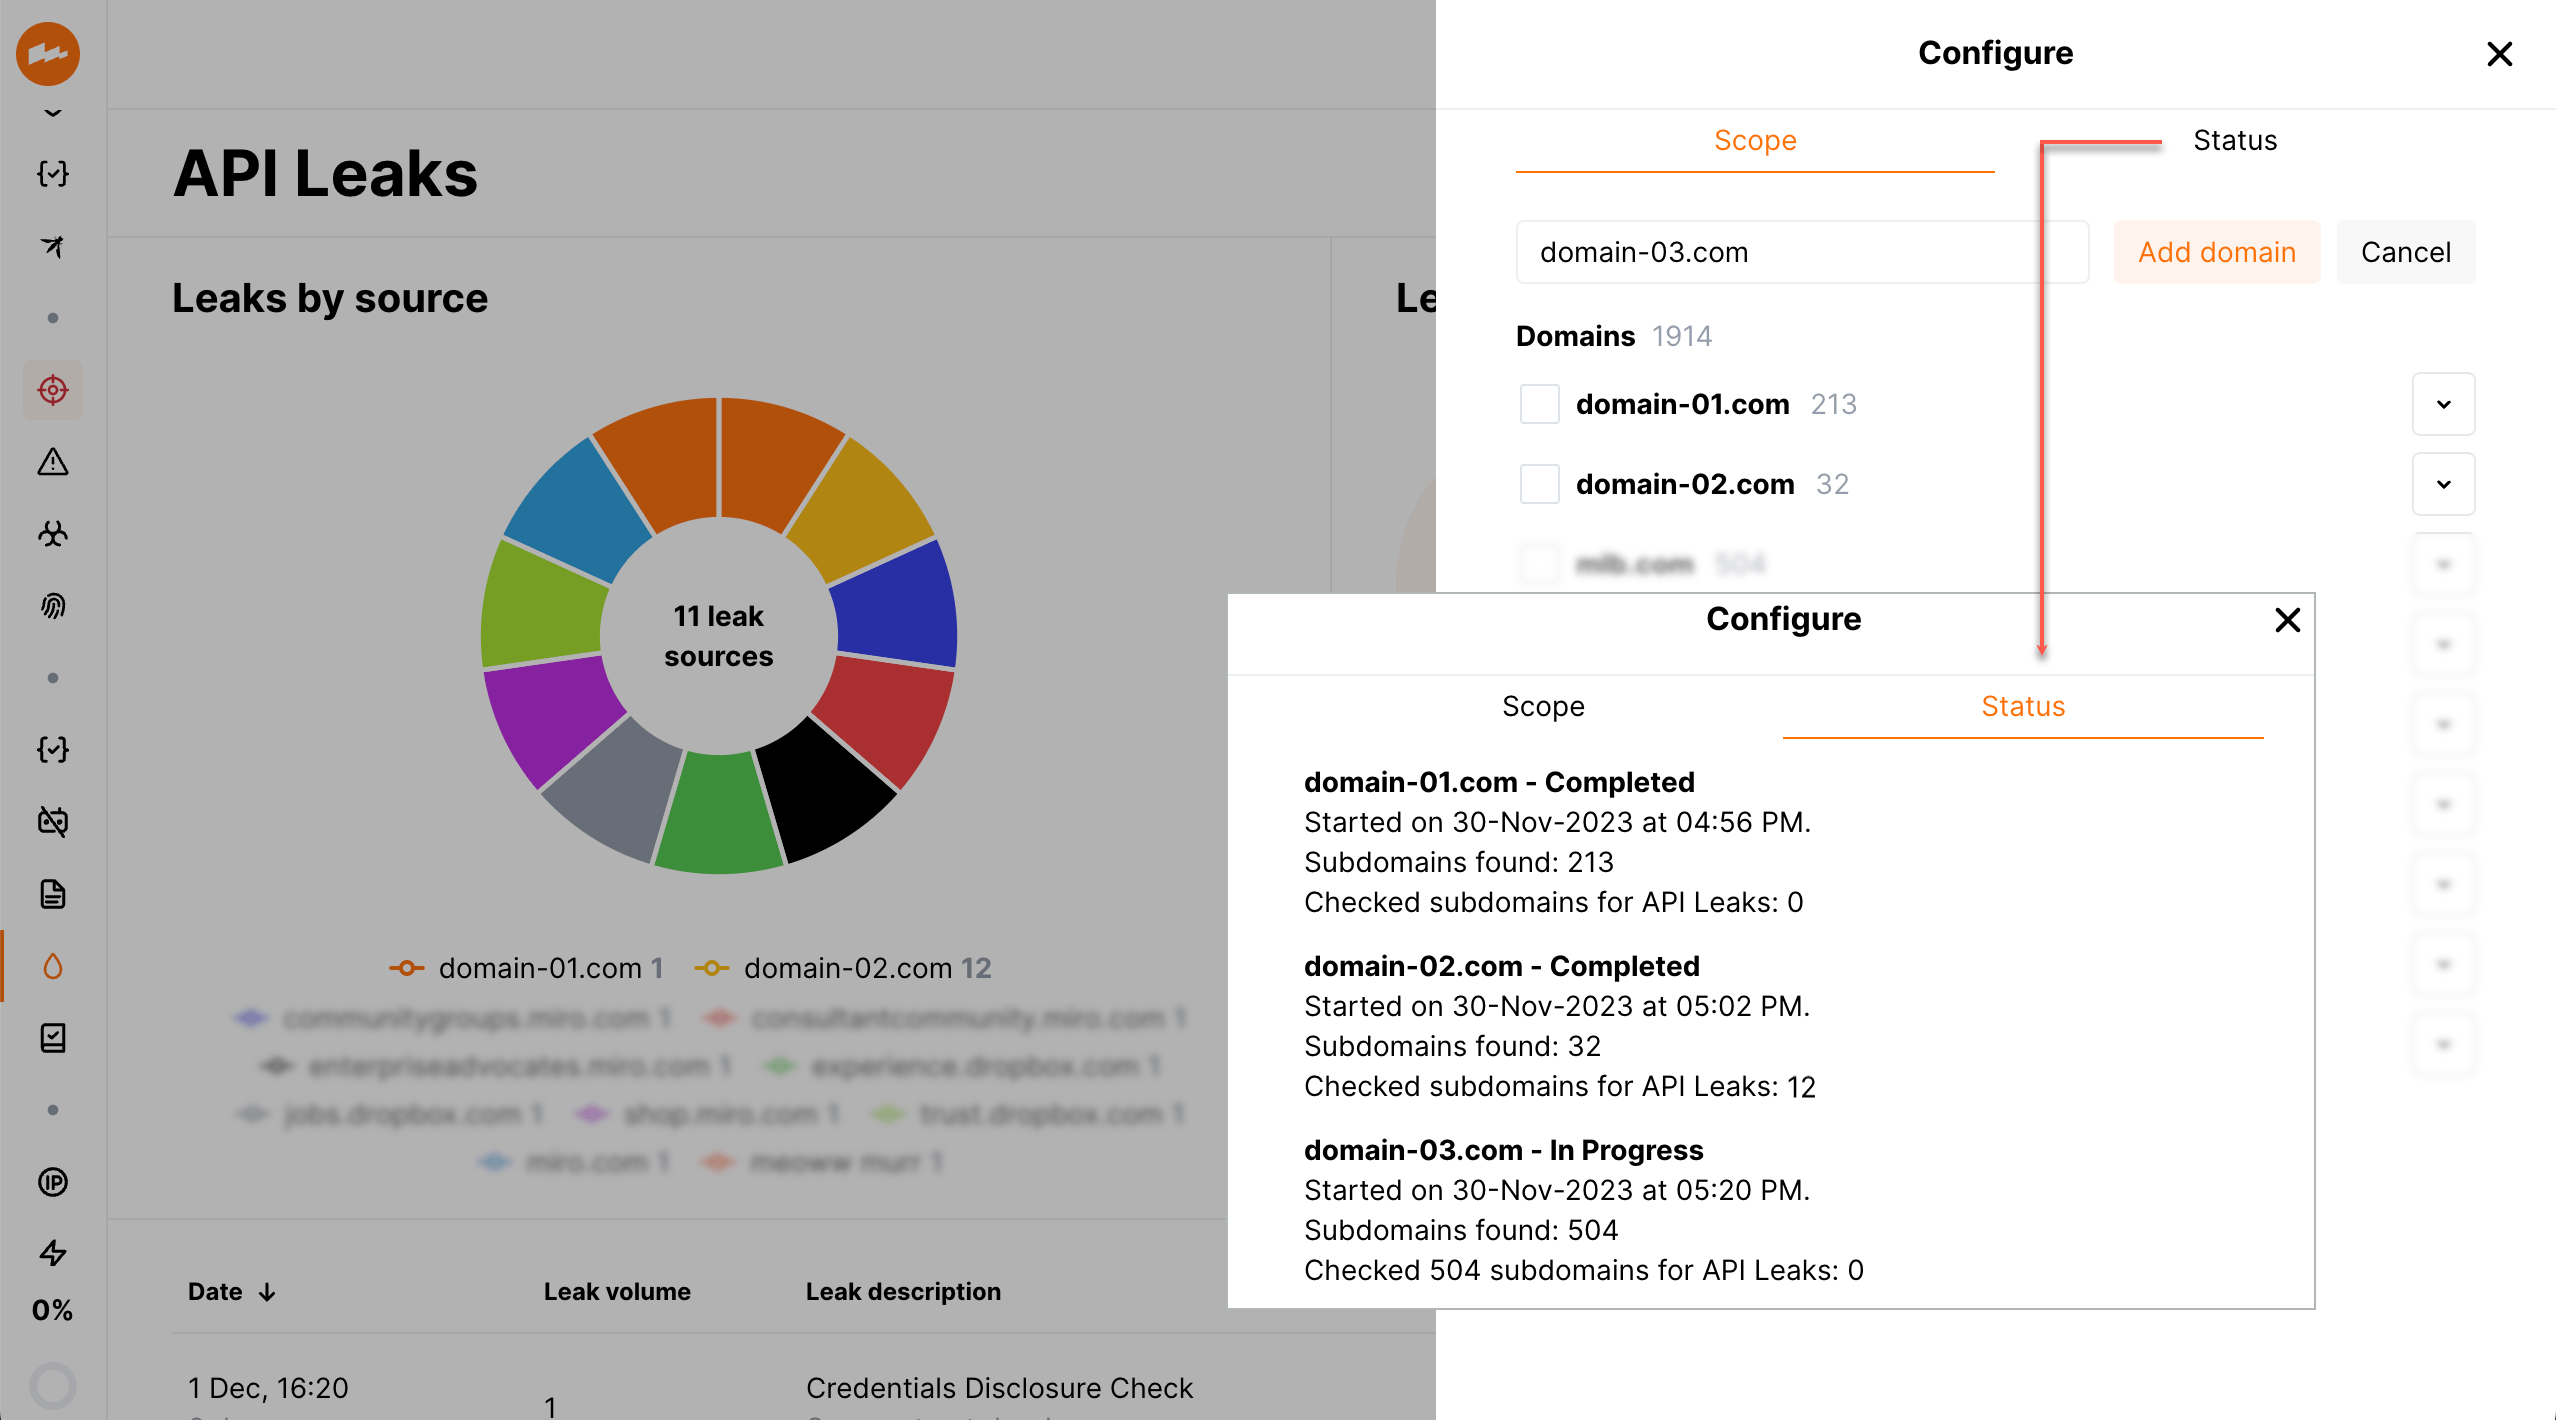
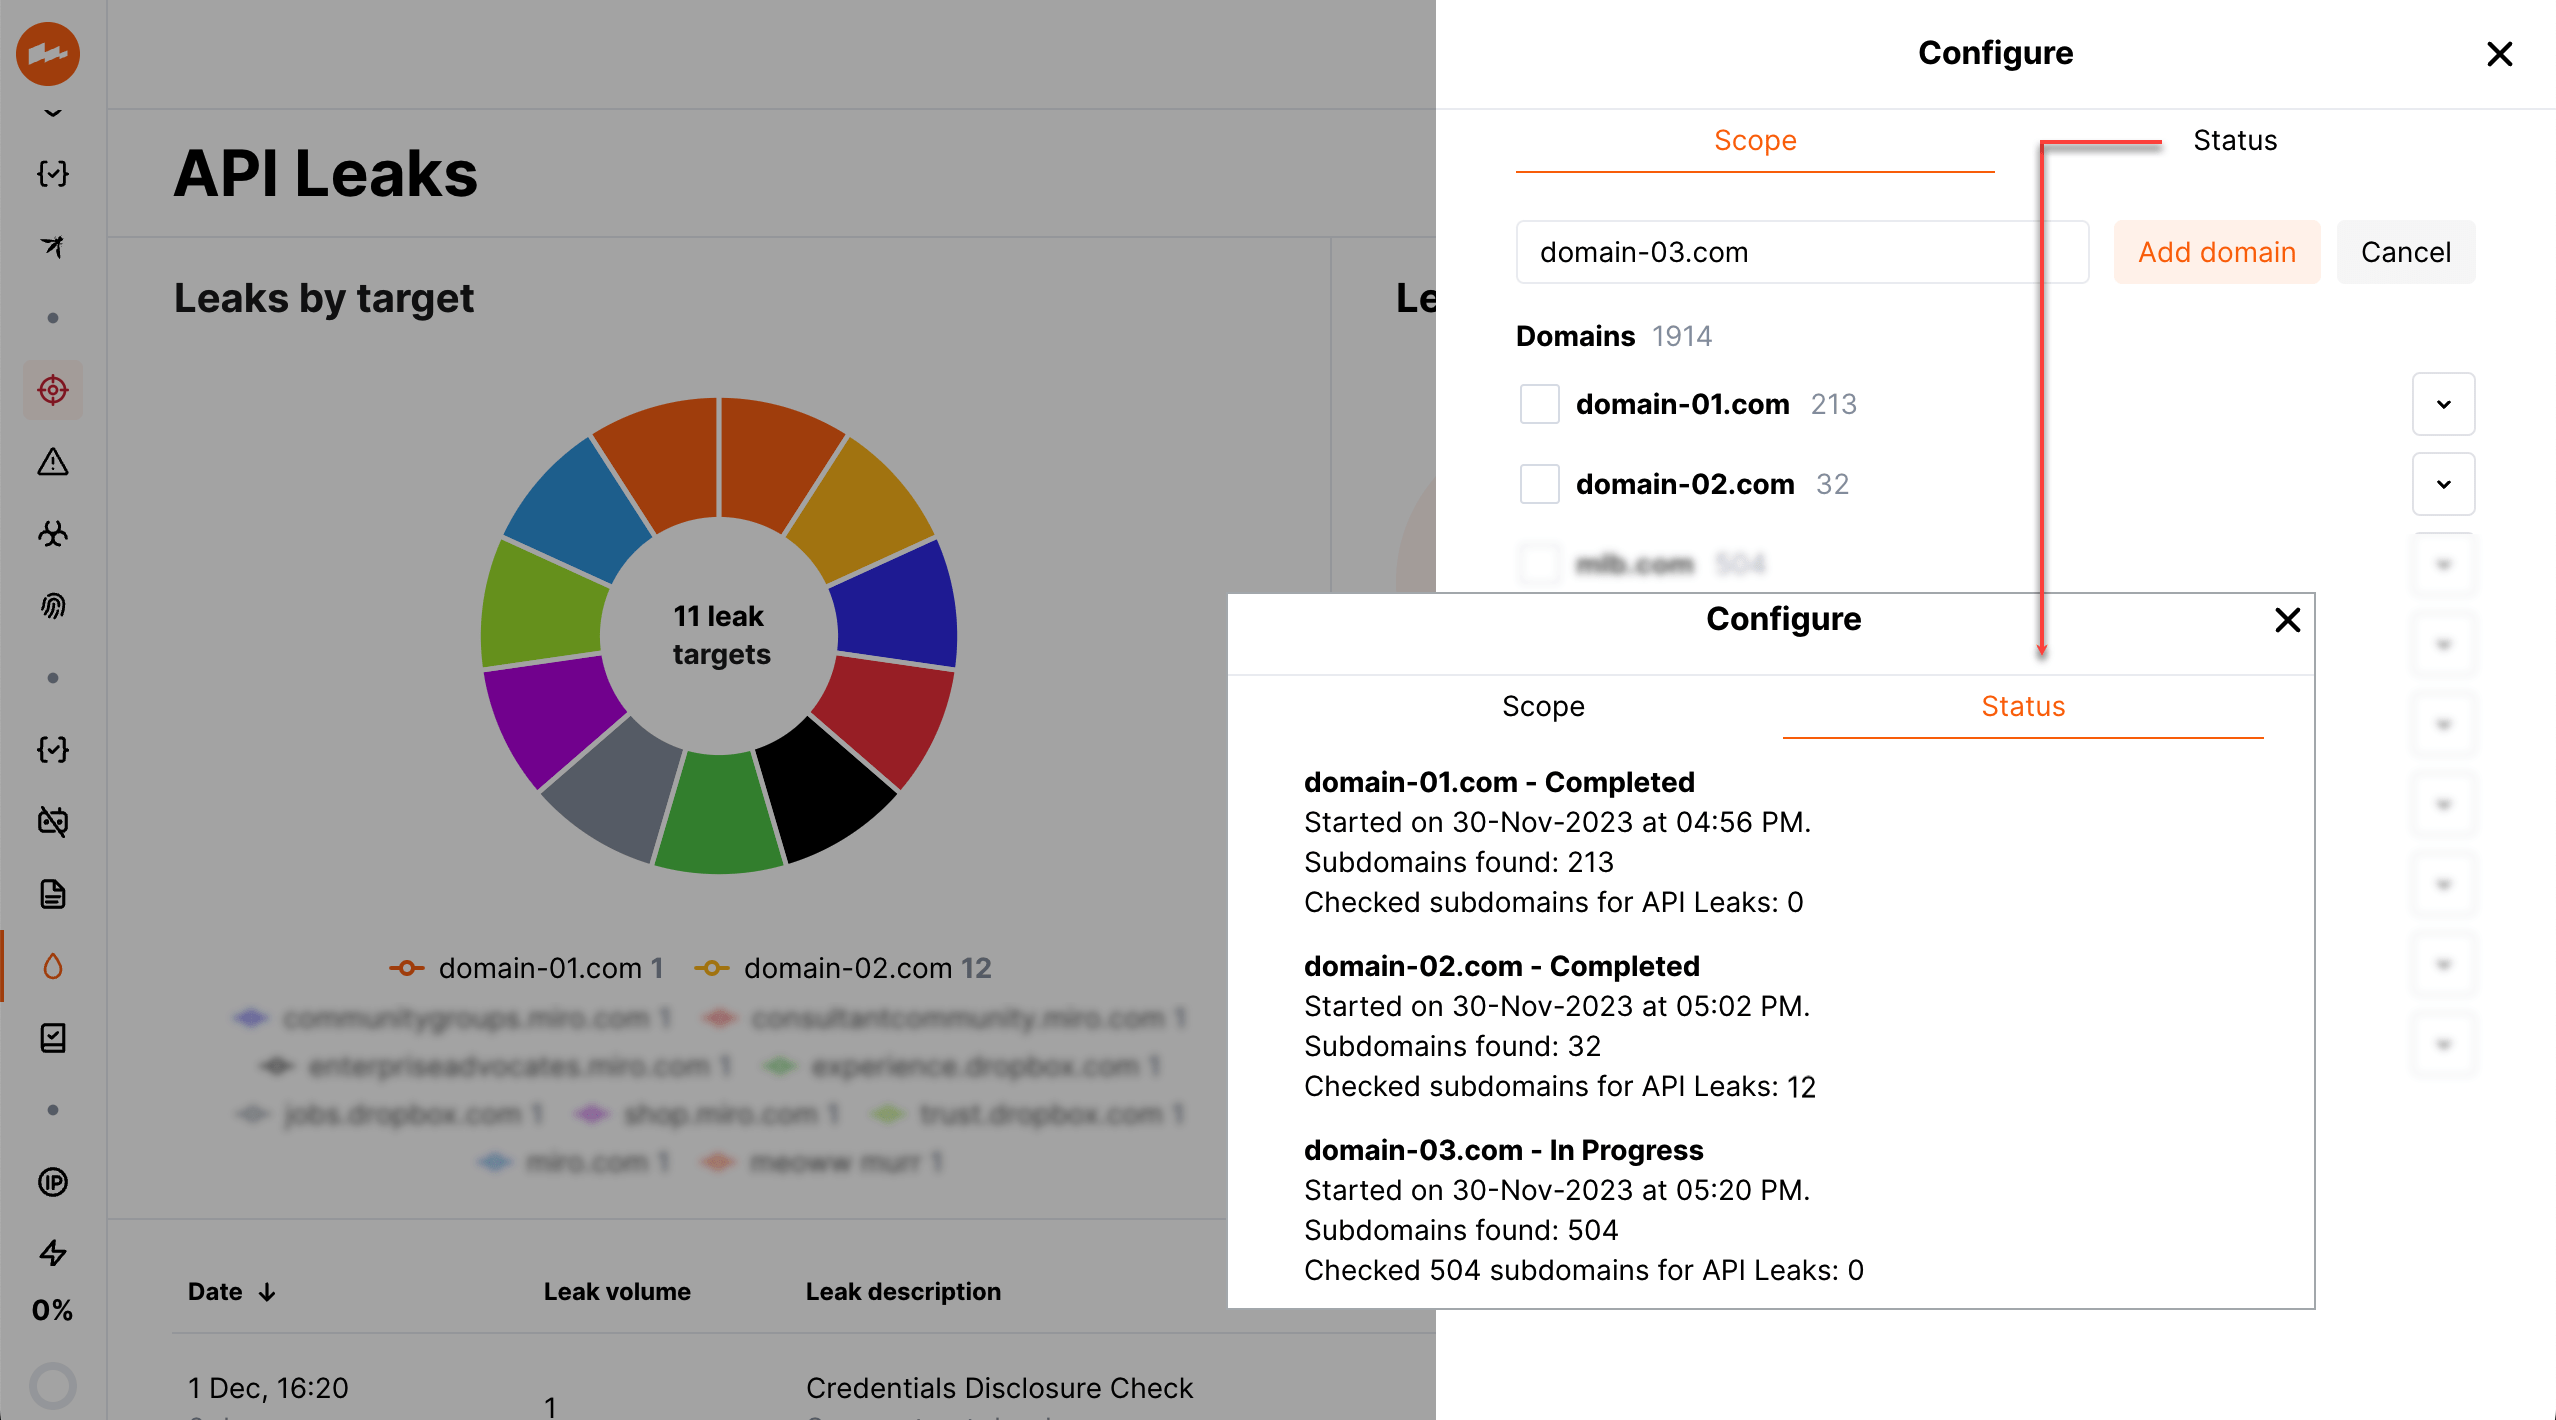
DOCS-2399 Changes in API Leaks

Changed region(s): [[0.1854, 0.4648, 0.2473, 0.5577], [0.0618, 0.1859, 0.1854, 0.2169], [0.2473, 0.4338, 0.3091, 0.4648]]

diff --git a/docs/latest/about-wallarm/api-leaks.md b/docs/latest/about-wallarm/api-leaks.md
@@ -1,13 +1,13 @@
 # API Leaks
 
-The **API Leaks** module of the Wallarm platform actively scans selected public repositories and sources to check for the leaks of API tokens. This article gives an overview of API Leaks: issues addressed by it, its purpose and main possibilities.
+The **API Leaks** module of the Wallarm platform actively scans your selected domains to check for the leaks of API tokens. This article gives an overview of API Leaks: issues addressed by it, its purpose and main possibilities.
 
 The module can operate in two different modes: 
 
 * **Only detect** API leaks and report that to users via the **API Leaks** section in Wallarm Cloud.
 * Detect and [**perform measures to block**](#making-decisions) usage of leaked credentials until they are regenerated or removed. This requires deployed Wallarm [node(s)](../user-guides/nodes/nodes.md).
 
-![API Leaks](../images/about-wallarm-waf/api-leaks/api-leaks.png)
+![API Leaks](../images/about-wallarm-waf/api-leaks/api-leaks-add.png)
 
 !!! info "Enabling API Leaks"
     By default, the API Leaks module is disabled. To get access to the module, please send a request to [Wallarm technical support](mailto:support@wallarm.com).
@@ -22,25 +22,15 @@ If leaked API secrets are found, a multifaceted response is needed to prevent ha
 
 The **API Leaks** Wallarm module helps to solve these issues by providing the following:
 
-* Automatic detection of leaked API tokens from the selected public resources and logging of detected leaks in the Wallarm Console UI.
+* Automatic detection of API tokens leaked by your selected domains and logging of detected leaks in the Wallarm Console UI.
 * Risk level detection.
-* Ability to add leaks manually.
 * Ability to make your own decisions on how the leaked data problems should be remediated in each case.
 
-## New API leaks
+## Define your domains to search for API leaks
 
-There are two ways to register new leaks:
+You can define a list of your domains (**target domains**) where you want to search for the exposed API tokens. As you add the domains, Wallarm automatically searches them for subdomains and then checks the entire scope on presence of API leaks.
 
-* Automatic - Wallarm actively scans the selected public repositories and sources and adds new leaks to the list. Sort by **Status** and view `Opened` leaks - they require your attention.
-* Manual - add API leaks manually. Each one is a set of leaked tokens.
-
-![API Leaks - Manual adding](../images/about-wallarm-waf/api-leaks/api-leaks-add-manually.png)
-
-## Define sources to search for API leaks
-
-You can define where to search for API leaks, adding known public repositories and other sources. You add domains, and Wallarm automatically searches them for subdomains and presented leaks.
-
-To define sources to search for API leaks:
+To define target domains to search for API leaks:
 
 1. In the **API Leaks** section, click **Configure**.
 1. At the **Scope** tab, click **Add domain**, add domain name and confirm adding.
@@ -52,13 +42,13 @@ To define sources to search for API leaks:
 
 ## Interactive visualization
 
-The **API Leaks** section provides rich visual representation for your current situation regarding found API leaks. Use the graphics to quickly analyze current situation with found leaks, click diagram elements to filter leaks by risk levels and sources.
+The **API Leaks** section provides rich visual representation for your current situation regarding found API leaks. Use the graphics and filters to quickly analyze current situation with found leaks, click diagram elements to filter leaks by targets or risk levels.
 
 ![API Leaks - Visualization](../images/about-wallarm-waf/api-leaks/api-leaks-visual.png)
 
 ## Making decisions
 
-Regardless of how the API leak was added - automatically or manually - the decision on what to do is always yours. You can manage these decisions as follows:
+You can manage the decisions on what to do  with the found leaks as follows:
 
 * Apply virtual patch to block all attempts of using leaked tokens.
 
